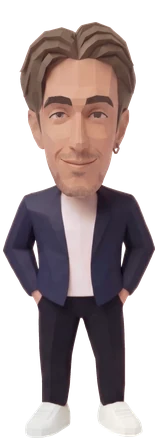
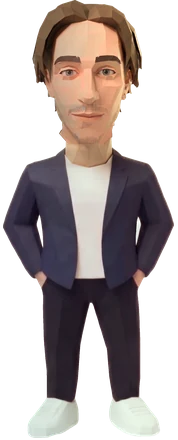
Figurka v3: głowa stylizowana wprost ze zdjęcia (papercraft), szyja i kołnierz dopasowane, ciepłe światło z prawej; natywne proporcje sprite'ów w layout.ts; nowy obraz OG/Twitter

diff --git a/components/diorama/layout.ts b/components/diorama/layout.ts
@@ -19,6 +19,6 @@ export const ROOM_BOX: Record<'dev' | 'ceo', Box[]> = {
   ],
 }
 export const FIG = {
-  dev: { l: 22.792, t: 21.634, w: 7.906, h: 43.116, jumpAspect: 0.698 },
-  ceo: { l: 22.831, t: 21.331, w: 7.944, h: 43.419, jumpAspect: 0.71 },
+  dev: { l: 22.442, t: 21.634, w: 8.607, h: 43.116, jumpAspect: 0.752 },
+  ceo: { l: 22.328, t: 21.331, w: 8.95, h: 43.419, jumpAspect: 0.783 },
 }
